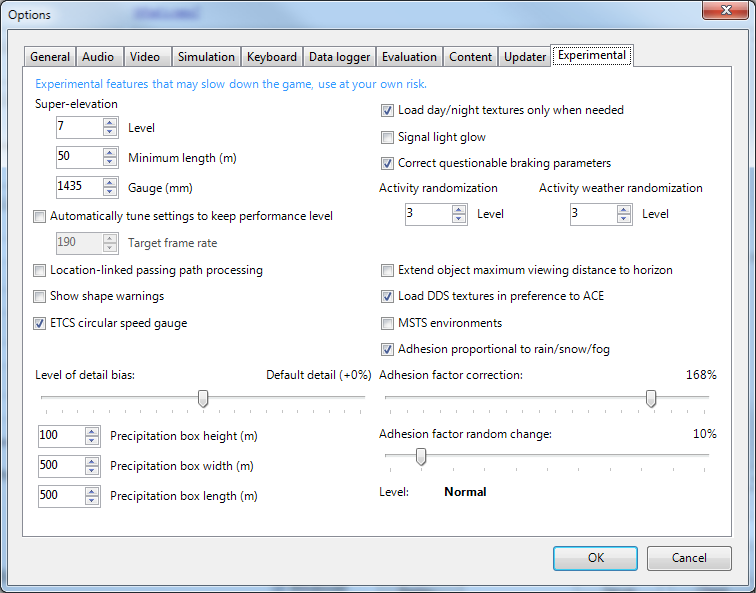
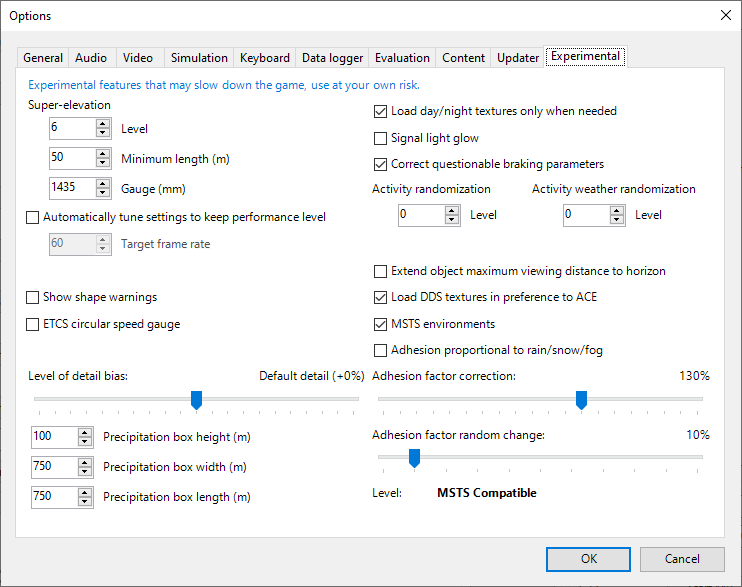
Update the OR manual.
(cherry picked from commit ae8a7cabc8bc02ed3441403170f85ea669d9c8b5)

Changed region(s): [[0.0, 0.0, 1.0, 1.0], [0.496, 0.8279, 0.558, 0.8586]]

diff --git a/Source/Documentation/Manual/options.rst b/Source/Documentation/Manual/options.rst
@@ -422,55 +422,6 @@ already at a value that allows running the locomotive. If the option is
 not selected, you will have to wait until the water temperature reaches a
 high enough value.
 
-.. _options-autopilot:
-
-Autopilot
----------
-
-With this option enabled and when in activity mode, it is possible to stay
-in the cab of the player train, but to let Open Rails move the train,
-respecting path, signals, speeds and station stops.
-
-It is possible to switch the player train between autopilot mode and
-player driven mode at run time. The Autopilot mode is described
-:ref:`here <driving-autopilot>`.
-
-.. _options-ai-shunting:
-
-Extended AI train shunting
---------------------------
-
-When this option is selected, further AI train shunting functions are
-available. This allows for more interesting and varied activities. If an
-activity is run which makes use of these function, this option must be
-selected. This option has no effect in :ref:`Timetable mode <timetable>`.
-
-The following additional shunting functions are available:
-
-- AI train couples to static consist and restarts with it.
-- AI train couples to player or AI train and becomes part of it; coupled AI
-  train continues on its path.
-- AI train couples to player or AI train and leaves to it its cars; coupled
-  and coupling train continue on their path.
-- AI train couples to player or AI train and *steals* its cars; coupled
-  and coupling train continue on their path.
-- AI train uncouples any number of its cars; the uncoupled part becomes a
-  static consist. With the same function it is possible to couple any number
-  of cars from a static consist.
-
-.. admonition:: For content developers
-
-    A more detailed description of this feature can be found under
-    Extended AI Train Shunting under :ref:`Open Rails Train Operation
-    <operation-ai-shunting>`.
-
-.. admonition:: For content developers
-
-    Selecting this option also enables the waiting points to declare an
-    absolute time-of-day instead of a waiting point duration. A more
-    detailed description of this feature can be found in the
-    :ref:`related paragraph <operation-absoluteWP>` in the chapter *Open Rails Train Operation*.
-
 .. _options-forced-red:
 
 Forced red at station stops
@@ -501,7 +452,28 @@ With option enabled, doors open and
 close automatically also when a player train is in :ref:`autopilot mode <driving-autopilot>`.
 The option is active only in activity mode.
 
+.. _options-location-linked-passing-path:
 
+Location-linked passing path processing
+---------------------------------------
+
+When this option is NOT selected, ORTS acts similarly to MSTS. That is, if
+two trains meet whose paths share some track section in a station, but are
+both provided with passing paths as defined with the MSTS Activity Editor,
+one of them will run through the passing path, therefore allowing the
+meet. Passing paths in this case are only available to the trains whose
+path has passing paths.
+
+When this option is selected, ORTS makes available to all trains the main
+and the passing path of the player train. Moreover, it takes into account
+the train length in selecting which path to assign to a train in case of a
+meet.
+
+.. admonition:: For content developers
+
+    A more detailed description of this feature can be
+    found under :ref:`Location-Linked Passing Path Processing <operation-locationpath>`
+    in the chapter  *Open Rails Train Operation*.
 
 .. _options-keyboard:
 
@@ -627,30 +599,6 @@ When this option is selected OR attempts to maintain the selected Target
 frame rate FPS ( Frames per second). To do this it decreases or increases
 the viewing distance of the standard terrain. If the option is selected,
 also select the desired FPS in the *Target frame rate* window.
-
-.. _options-location-linked-passing-path:
-
-Location-linked passing path processing
----------------------------------------
-
-When this option is NOT selected, ORTS acts similarly to MSTS. That is, if
-two trains meet whose paths share some track section in a station, but are
-both provided with passing paths as defined with the MSTS Activity Editor,
-one of them will run through the passing path, therefore allowing the
-meet. Passing paths in this case are only available to the trains whose
-path has passing paths.
-
-When this option is selected, ORTS makes available to all trains the main
-and the passing path of the player train. Moreover, it takes into account
-the train length in selecting which path to assign to a train in case of a
-meet.
-
-.. admonition:: For content developers
-
-    A more detailed description of this feature can be
-    found under :ref:`Location-Linked Passing Path Processing <operation-locationpath>`
-    in the chapter  *Open Rails Train Operation*.
-
 
 .. _options-shape-warnings:
 

diff --git a/Source/Documentation/Manual/driving.rst b/Source/Documentation/Manual/driving.rst
@@ -196,7 +196,7 @@ The following information is displayed in the basic display:
   appears displaying the actual gear. ``N`` means no gear inserted.
 - FPS = Number of Frames rendered per second
 
-If the :ref:`Autopilot <options-autopilot>` is active, an additional line 
+When applicable, an additional line indicationg whether Autopilot is active or not 
 will be shown.
 
 An example of the basic HUD for Diesel locomotives:
@@ -702,8 +702,8 @@ route.
 .. image:: images/driving-dispatcher.png
 
 The dispatcher window shows the route layout and monitors the movement of 
-all trains. While the player train is identified by the ``PLAYER`` string 
-(or by a ``0`` if autopilot mode is enabled), AI trains are identified by 
+all trains. While the player train is identified by the ``0`` string, 
+AI trains are identified by 
 their OR number (that is also shown in the :ref:`Extended HUD for Dispatcher 
 Information <driving-hud-dispatcher>`), followed by the service name. 
 Static consists are identified as in MSTS.
@@ -800,8 +800,7 @@ original route, its path information in the dispatcher info HUD is displayed in 
 Station platform stops are re-assigned to adjacent platforms, if available. Events and 
 waiting points in the abandoned part of route will be lost.
 
-The re-routed train may be also the player train (be it autopiloted or not), provided the
-Autopilot option is checked.
+The re-routed train may be also the player train (be it autopiloted or not).
 
 Additional Train Operation Commands
 ===================================
@@ -969,14 +968,21 @@ to better understand what is possible with turntables and transfertables.
 Autopilot Mode
 ==============
 
+When in activity mode or in Explore in activity mode, through this feature 
+it is possible to stay
+in the cab of the player train, but to let Open Rails move the train,
+respecting path, signals, speeds and station stops.
+
+It is possible to switch the player train between autopilot mode and
+player driven mode at run time.
+
 Autopilot mode is not a simulation of a train running with cruise control; 
 instead, it is primarily a way to test activities more easily and quickly; 
 but it can also be used to run an activity (or part of it, as it is 
 possible to turn autopilot mode on or off at runtime) as a trainspotter or 
 a visitor within the cab.
 
-Autopilot mode is enabled with the related checkbox in the Simulation 
-Options. It is active only in activity mode (i.e. not in explorer or 
+Autopilot mode is active only in activity mode (i.e. not in explorer or 
 timetable modes).
 
 When starting the game with any activity, you are in player driving mode. 
@@ -1024,9 +1030,7 @@ General
 -------
 
 This function only works in activity mode, and allows the player to select 
-another (existing) train from a list and to start driving it. It requires 
-that the Experimental Options ``Autopilot`` and ``Extended AI Shunting`` be 
-checked. 
+another (existing) train from a list and to start driving it.
 
 This function can be called more than once. A new information window has 
 been created to support this function: the ``Train List`` window (opened 

diff --git a/Source/Documentation/Manual/operation.rst b/Source/Documentation/Manual/operation.rst
@@ -49,8 +49,7 @@ Basic AI Functionality
   Activity and Timetable modes, while waiting points can only be used in Activity 
   mode.
 - AI trains throw switches not lined properly before engaging them.
-- In activity mode AI trains can perform shunting actions, provided the 
-  :ref:`Extended AI shunting <operation-ai-shunting>` option has been selected.
+- In activity mode AI trains can perform shunting actions.
 - Priorities: AI trains should start as scheduled as long as there is no other 
   AI train already on a conflict path.
 
@@ -419,8 +418,7 @@ Waiting points cannot be used in Timetable mode.
 Absolute Waiting Points
 -----------------------
 
-When the :ref:`Extended AI shunting <operation-ai-shunting>` option is selected 
-and OR is not in Timetable Mode, waiting points with a *waiting time* between 
+Waiting points with a *waiting time* between 
 30000 and 32359 are interpreted as absolute time-of-day waiting points, with a 
 format 3HHMM, where HH and MM are the hour and minute of the day in standard 
 decimal notation.
@@ -725,8 +723,10 @@ Extended AI Train Shunting
 General
 -------
 
-When this option is selected further AI train shunting functions are available. 
-Note that this option is not available in Timetable mode.
+Having AI trains performing shunting operations ensures more interesting and varied activities.
+
+Note that this feature is not available in Timetable mode, which has other ways to 
+perform AI Train shunting.
 
 The following additional shunting functions are available:
 
@@ -1782,9 +1782,6 @@ does not work for the terminating event of the activity.
 
 AI Train Horn Blow
 ------------------
-
-This feature requires selection of the :ref:`Extended AI train shunting option 
-<options-ai-shunting>`.
 
 Horn blow by AI trains is achieved by inserting into the AI train path a 
 waiting point with a waiting time value between 60011 (1 second horn blow) and 
